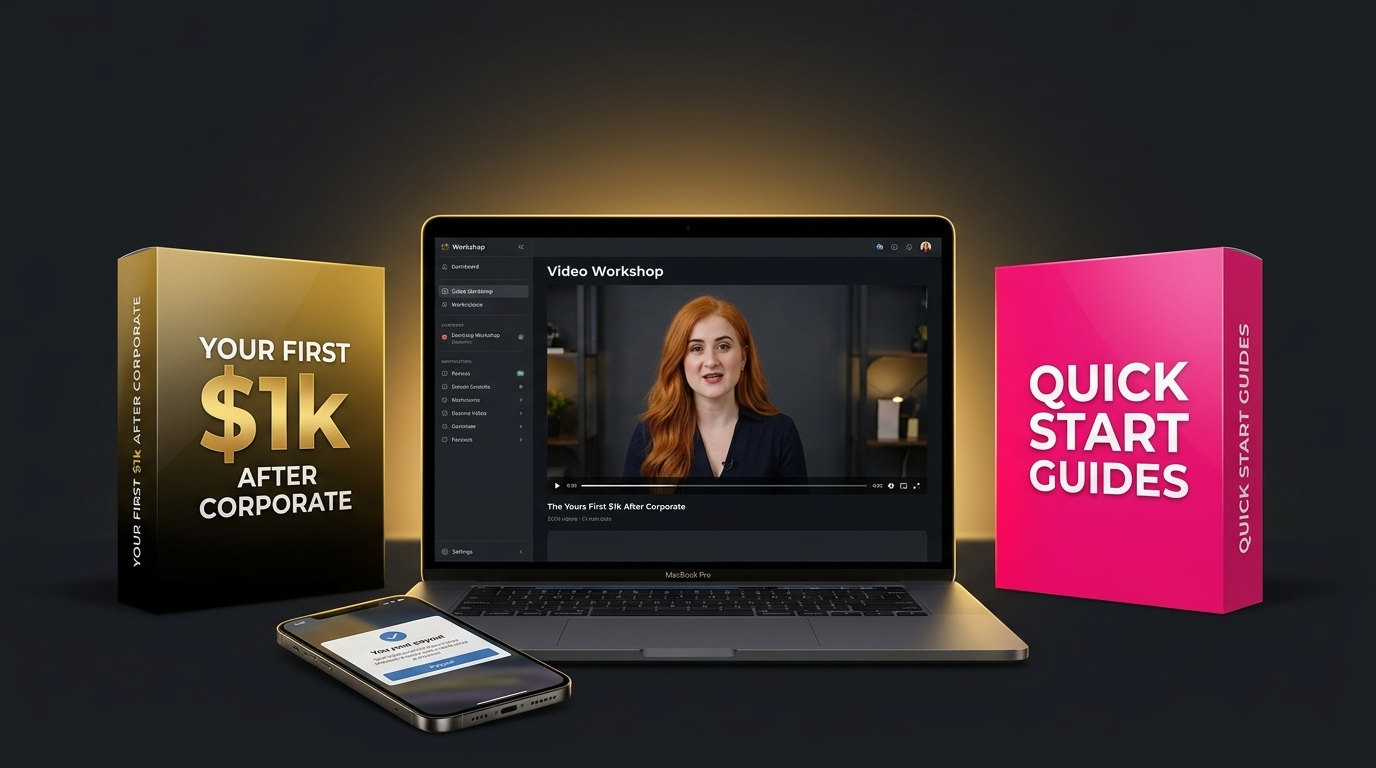
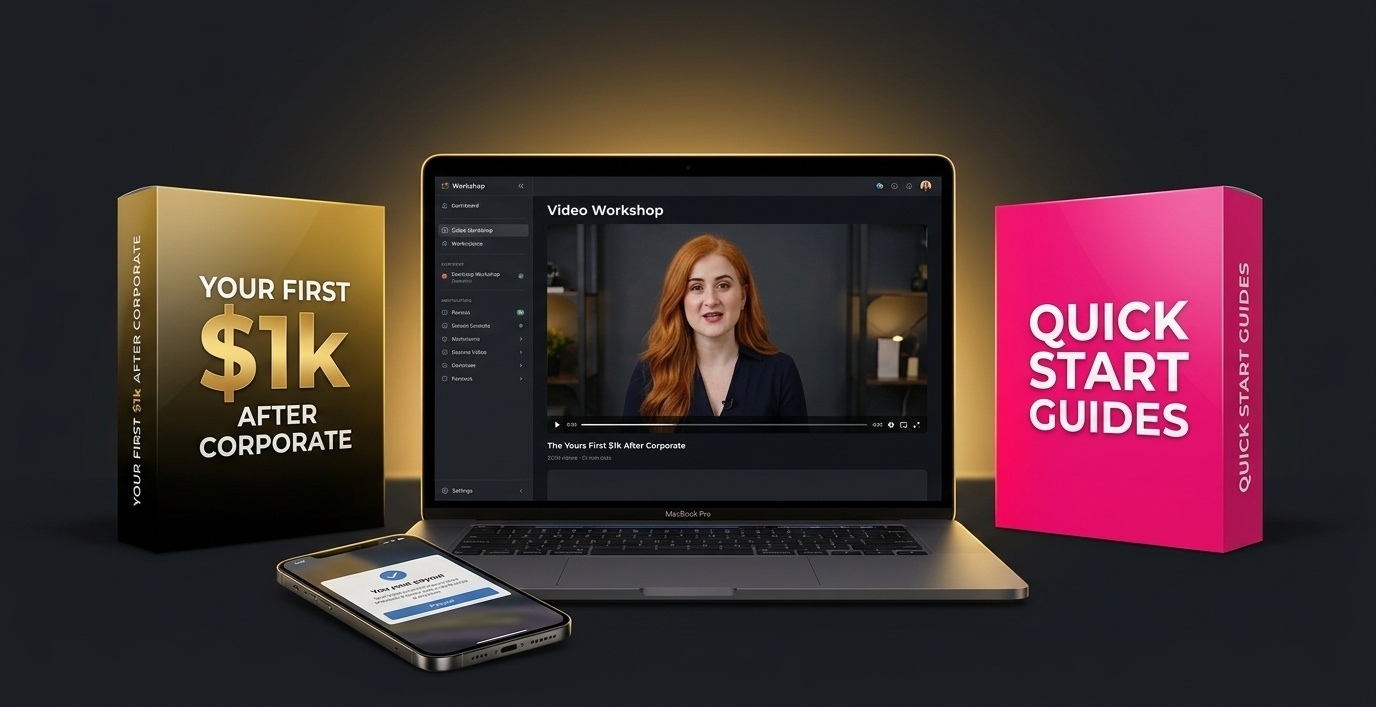
updates

Changed region(s): [[0.0625, 0.0622, 0.9375, 0.9646], [0.75, 0.3734, 0.9062, 0.7157]]

diff --git a/src/app/your-first-1k-after-corporate/layout.tsx b/src/app/your-first-1k-after-corporate/layout.tsx
@@ -1,20 +1,47 @@
-import type { Metadata } from 'next'
+import type { Metadata } from "next"
 
 export const metadata: Metadata = {
-  title: 'Your First $1K After Corporate — Ana Calin',
+  title: "Your First $1K After Corporate — Live Workshop with Ana Calin",
   description:
-    'The exact playbook I used to replace my corporate salary — and how you can make your first $1,000 online in 90 days or less.',
+    "Join Ana Calin\u2019s live workshop and learn the exact 90-day system she used to go from corporate burnout to $119K/month online. Make your first $1,000 after corporate \u2014 no audience, no website, no experience needed.",
+  keywords: [
+    "make money after corporate",
+    "first 1K online",
+    "quit corporate job",
+    "newsletter monetization",
+    "side hustle for corporate women",
+    "Ana Calin workshop",
+    "substack bestseller",
+    "corporate to entrepreneur",
+    "online income after corporate",
+    "how to start a newsletter",
+    "90 day sprint",
+    "career change workshop",
+  ],
   openGraph: {
-    title: 'Your First $1K After Corporate — Ana Calin',
+    title: "Your First $1K After Corporate — Live Workshop",
     description:
-      'The exact playbook I used to replace my corporate salary — and how you can make your first $1,000 online in 90 days or less.',
-    type: 'website',
+      "The exact 90-day system to make your first $1,000 online. From a Forbes marketing leader who went from corporate burnout to $119K/month. Live workshop + replay included.",
+    type: "website",
+    url: "/your-first-1k-after-corporate",
+    siteName: "Build To Profit",
+    images: [
+      {
+        url: "/imgs/your-first-1k-after-corporate/hero1.jpeg",
+        width: 1376,
+        height: 768,
+        alt: "Your First $1K After Corporate — Live Workshop with Ana Calin",
+      },
+    ],
   },
   twitter: {
-    card: 'summary_large_image',
-    title: 'Your First $1K After Corporate — Ana Calin',
+    card: "summary_large_image",
+    title: "Your First $1K After Corporate — Live Workshop",
     description:
-      'The exact playbook I used to replace my corporate salary — and how you can make your first $1,000 online in 90 days or less.',
+      "The exact 90-day system to make your first $1,000 online. From a Forbes marketing leader who went from corporate burnout to $119K/month.",
+    images: ["/imgs/your-first-1k-after-corporate/hero1.jpeg"],
+    site: "@howwegrow",
+    creator: "how we grow",
   },
 }
 

diff --git a/src/app/your-first-1k-after-corporate/page.tsx b/src/app/your-first-1k-after-corporate/page.tsx
@@ -77,7 +77,7 @@ function HeroSection() {
           alt="Your First $1K After Corporate — workshop bundle with Ana Calin"
           width={800}
           height={450}
-          className="mx-auto mb-10 block w-full max-w-[700px] rounded-xl object-contain"
+          className="mx-auto mb-10 block w-full max-w-[900px] rounded-xl object-contain"
           priority
         />
 
@@ -309,17 +309,17 @@ function TestimonialsSection() {
     {
       quote:
         "I went from zero subscribers to my first paid subscriber in under 2 weeks following Ana's method. The 90-day sprint framework gave me clarity I'd been missing for months.",
-      name: '— Workshop Student',
+      name: '— Sarah Mitchell',
     },
     {
       quote:
         "Ana doesn't sell you a dream — she gives you the spreadsheet. I made my first $500 within 30 days of taking her workshop and I hadn't even quit my job yet.",
-      name: '— Workshop Student',
+      name: '— Jessica Thornton',
     },
     {
       quote:
         "After 12 years in corporate finance, I was terrified to start. Ana's workshop made it feel not just possible but obvious. I'm now at $3,200/month and growing.",
-      name: '— Workshop Student',
+      name: '— Rachel Davies',
     },
   ]
 
